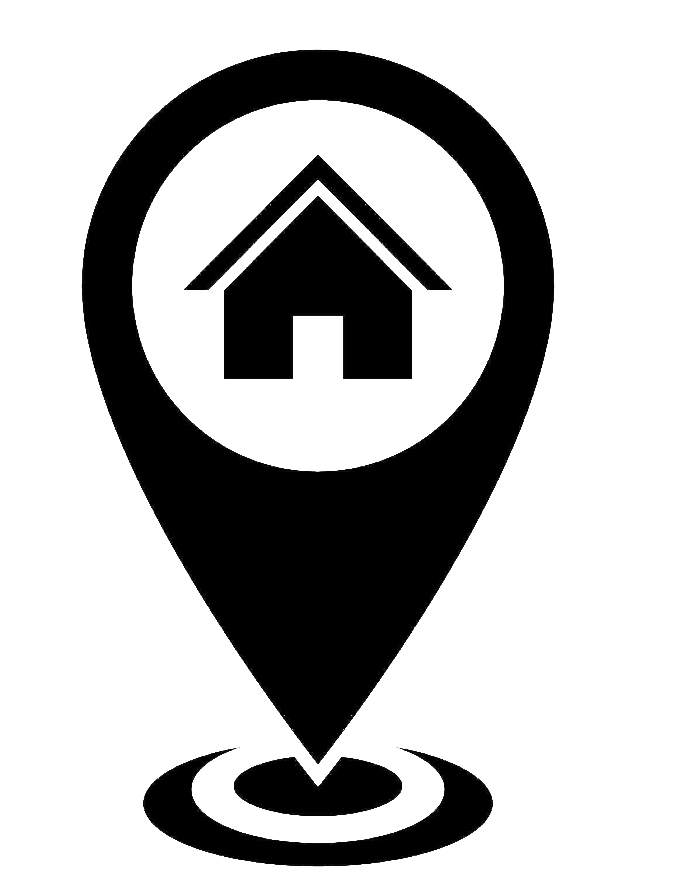
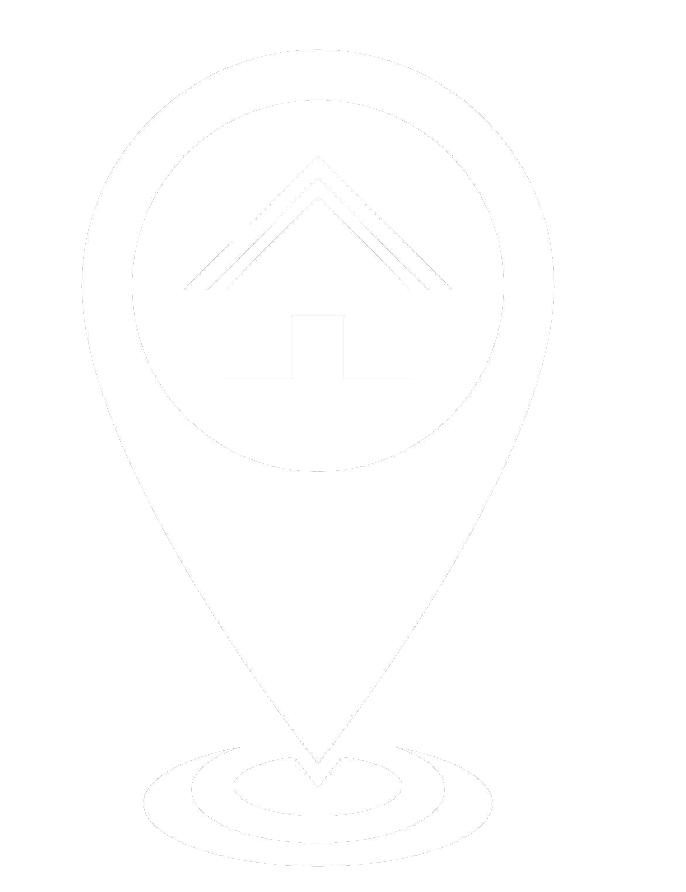
F5

diff --git a/index.html b/index.html
@@ -48,7 +48,9 @@
   <button id="info-btn" onclick="toggleInfoModal()">ℹ</button>
 
   <!-- Location Button -->
-  <a id="location-btn" href="https://www.google.com/maps/place/50,+VP+St,+Vannarpet,+Coonoor,+Tamil+Nadu+643101" target="_blank" rel="noopener noreferrer">📍</a>
+  <a id="location-btn" href="https://www.google.com/maps/place/50,+VP+St,+Vannarpet,+Coonoor,+Tamil+Nadu+643101" target="_blank" rel="noopener noreferrer">
+  <img src="locoation_icon.png" alt="Location Icon" style="width: 40px; height: 40px;" />
+</a>
 
 
   <!-- Info Modal -->

diff --git a/style.css b/style.css
@@ -219,12 +219,12 @@ video, canvas {
 }
 #location-btn {
   position: fixed;
-  bottom: 80px; /* above the info button */
-  right: 20px;
+  bottom: 20px; 
+  left: 20px;
   background-color: #5E0F8B;
   color: #ffffff;
   border: none;
-  padding: 10px 12px;
+  padding: 15px 15px;
   border-radius: 8px;
   cursor: pointer;
   z-index: 10;
